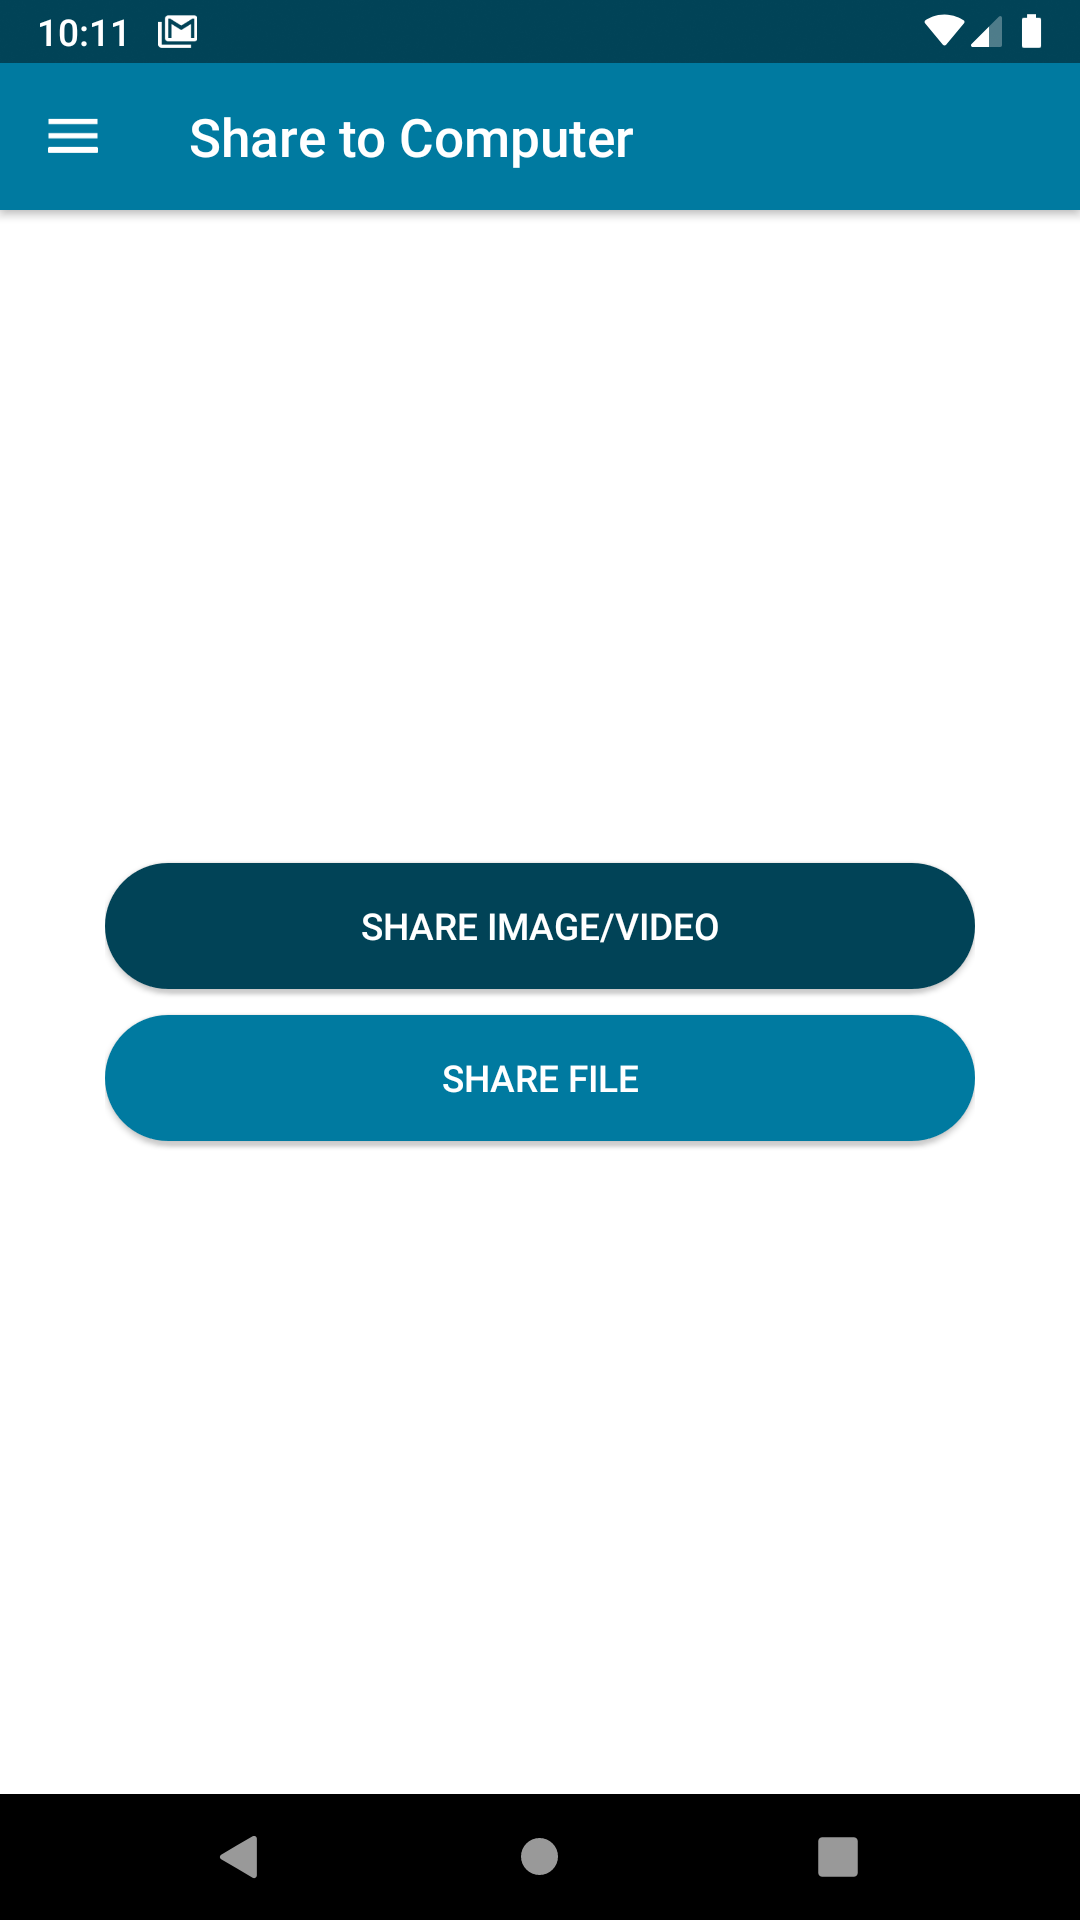
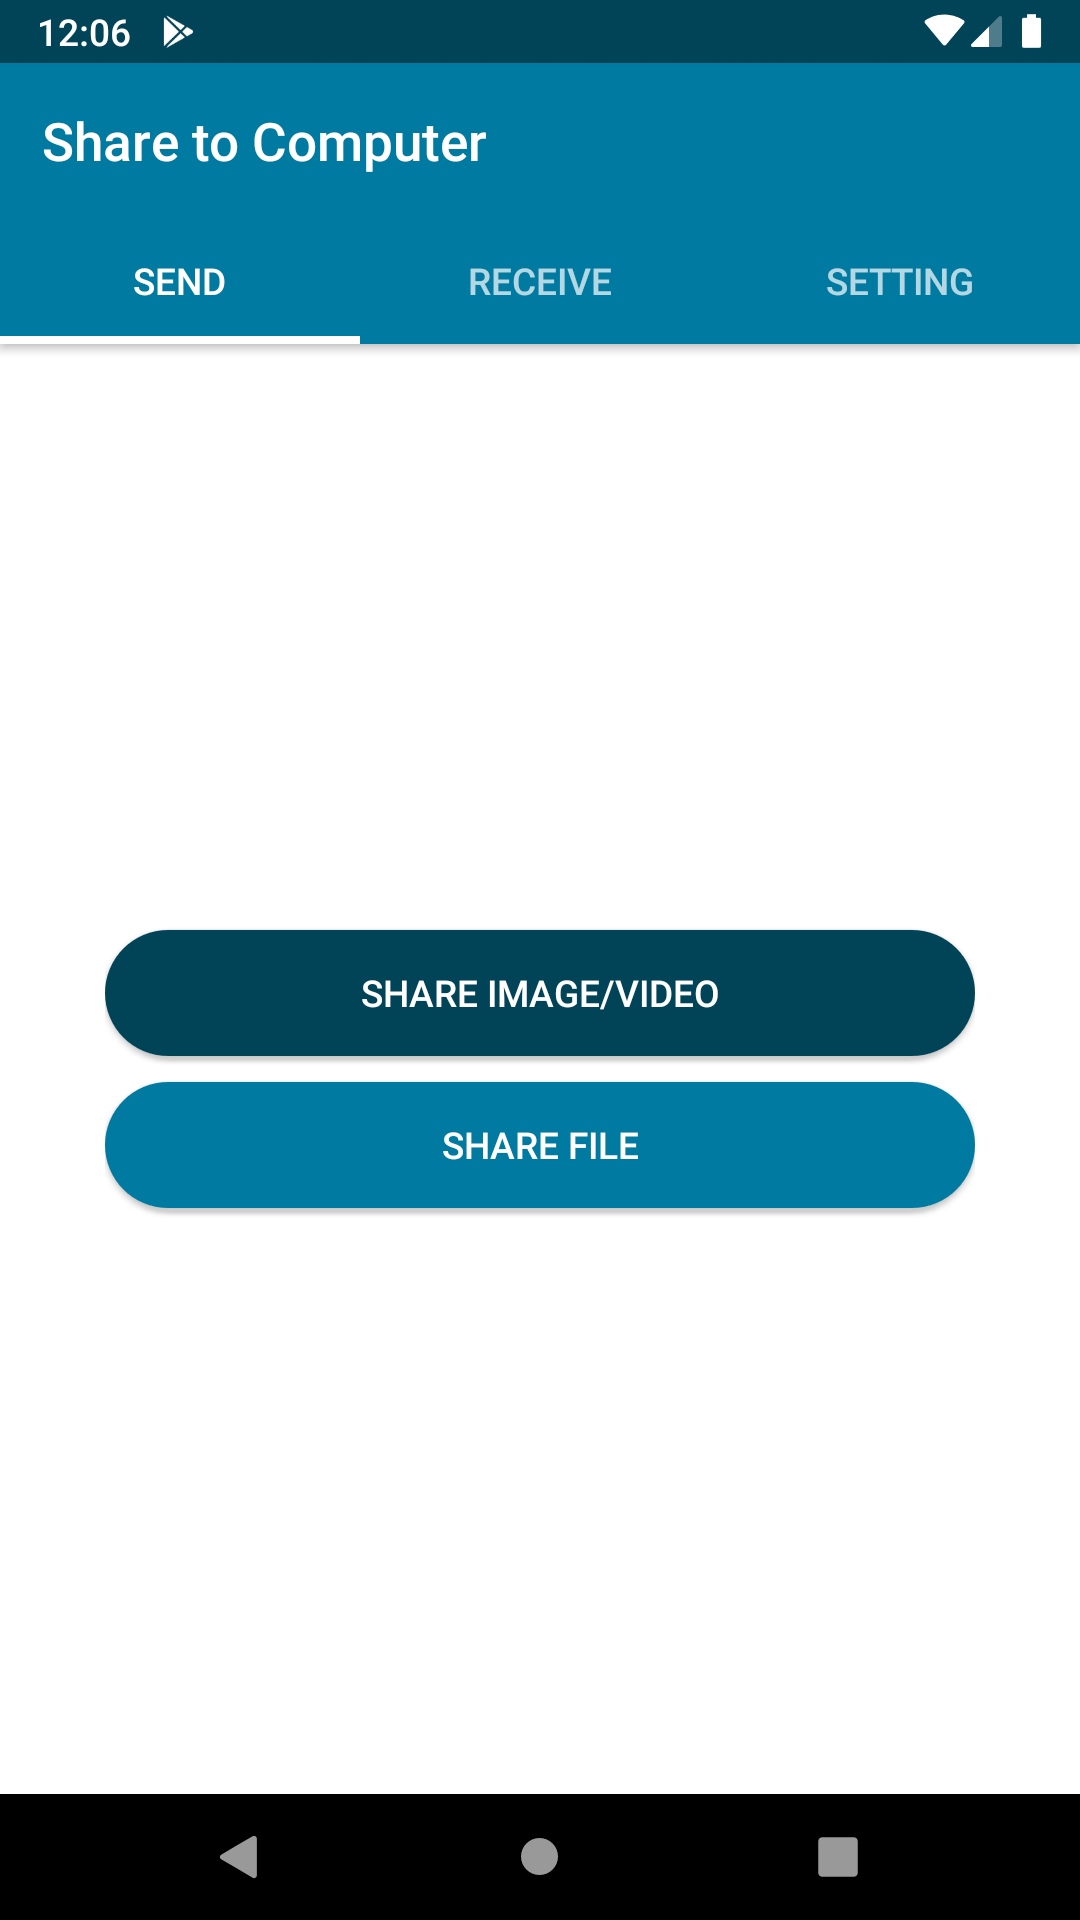
[Version] v2.0.0 (2000) (#60)
- New feature: receive from computer (browser)
- New UI: Tabs

diff --git a/fastlane/metadata/android/screenshots.html b/fastlane/metadata/android/screenshots.html
@@ -69,32 +69,43 @@
 <hr>
 <table>
     <tr>
-        <th colspan="4">
+        <th colspan="5">
             <a class="deviceName" href="#en-US-phoneScreenshots" id="en-US-phoneScreenshots">phoneScreenshots</a>
         </th>
     </tr>
     <tr>
         <td>
-            <a class="screenshotLink" href="./en-US/images/phoneScreenshots/screen_about.png" target="_blank">
+            <a class="screenshotLink" href="./en-US/images/phoneScreenshots/screen_about.png"
+               target="_blank">
                 <img alt="en-US phoneScreenshots" class="screenshot" data-counter="1"
                      src="./en-US/images/phoneScreenshots/screen_about.png" style="width: 100%;">
             </a>
         </td>
         <td>
-            <a class="screenshotLink" href="./en-US/images/phoneScreenshots/screen_main.png" target="_blank">
+            <a class="screenshotLink" href="./en-US/images/phoneScreenshots/screen_main.png"
+               target="_blank">
                 <img alt="en-US phoneScreenshots" class="screenshot" data-counter="2"
                      src="./en-US/images/phoneScreenshots/screen_main.png" style="width: 100%;">
             </a>
         </td>
         <td>
-            <a class="screenshotLink" href="./en-US/images/phoneScreenshots/screen_setting.png" target="_blank">
+            <a class="screenshotLink" href="./en-US/images/phoneScreenshots/screen_receive.png"
+               target="_blank">
                 <img alt="en-US phoneScreenshots" class="screenshot" data-counter="3"
+                     src="./en-US/images/phoneScreenshots/screen_receive.png" style="width: 100%;">
+            </a>
+        </td>
+        <td>
+            <a class="screenshotLink" href="./en-US/images/phoneScreenshots/screen_setting.png"
+               target="_blank">
+                <img alt="en-US phoneScreenshots" class="screenshot" data-counter="4"
                      src="./en-US/images/phoneScreenshots/screen_setting.png" style="width: 100%;">
             </a>
         </td>
         <td>
-            <a class="screenshotLink" href="./en-US/images/phoneScreenshots/screen_sharing.png" target="_blank">
-                <img alt="en-US phoneScreenshots" class="screenshot" data-counter="4"
+            <a class="screenshotLink" href="./en-US/images/phoneScreenshots/screen_sharing.png"
+               target="_blank">
+                <img alt="en-US phoneScreenshots" class="screenshot" data-counter="5"
                      src="./en-US/images/phoneScreenshots/screen_sharing.png" style="width: 100%;">
             </a>
         </td>

diff --git a/app/src/androidTest/java/com/jim/sharetocomputer/fastlane/MainScreenTest.kt b/app/src/androidTest/java/com/jim/sharetocomputer/fastlane/MainScreenTest.kt
@@ -48,11 +48,23 @@ class MainScreenTest {
     }
 
     @Test
+    fun screen_receive() {
+        clickReceiveTab()
+
+        assertReceiveScreenIsDisplayed()
+        Screenshot.take("screen_receive")
+    }
+
+    @Test
     fun screen_setting() {
         clickSettingTab()
 
         assertSettingScreenIsDisplayed()
         Screenshot.take("screen_setting")
+
+        clickAbout()
+        assertAboutScreenIsDisplayed()
+        Screenshot.take("screen_about")
     }
 
     private fun setupDummyImageSelect() {
@@ -72,12 +84,20 @@ class MainScreenTest {
         onView(withText(R.string.tab_title_setting)).perform(click())
     }
 
+    private fun clickReceiveTab() {
+        onView(withText(R.string.tab_title_receive)).perform(click())
+    }
+
+    private fun clickAbout() {
+        onView(withText(R.string.about)).perform(click())
+    }
+
     private fun assertAboutScreenIsDisplayed() {
         onView(withId(R.id.layout_about)).check(matches(isDisplayed()))
     }
 
     private fun assertMainScreenIsDisplayed() {
-        onView(withId(R.id.layout_main)).check(matches(isDisplayed()))
+        onView(withText(R.string.share_image_video)).check(matches(isDisplayed()))
     }
 
     private fun assertSharingScreenIsDisplayed() {
@@ -88,6 +108,9 @@ class MainScreenTest {
         onView(withText(R.string.title_send_feedback_preference)).check(matches(isDisplayed()))
     }
 
+    private fun assertReceiveScreenIsDisplayed() {
+        onView(withText(R.string.receive_from_computer)).check(matches(isDisplayed()))
+    }
 
     private fun clickStopShare() {
         onView(withId(R.id.stop_share)).perform(click())
